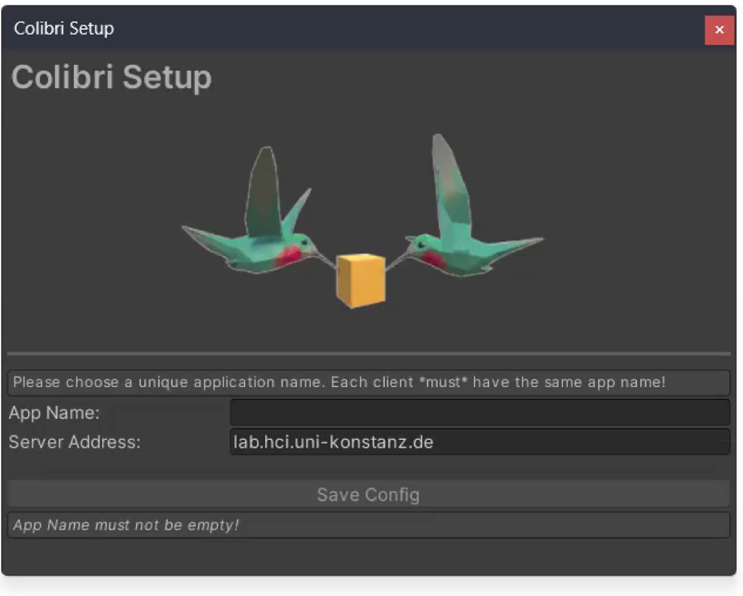
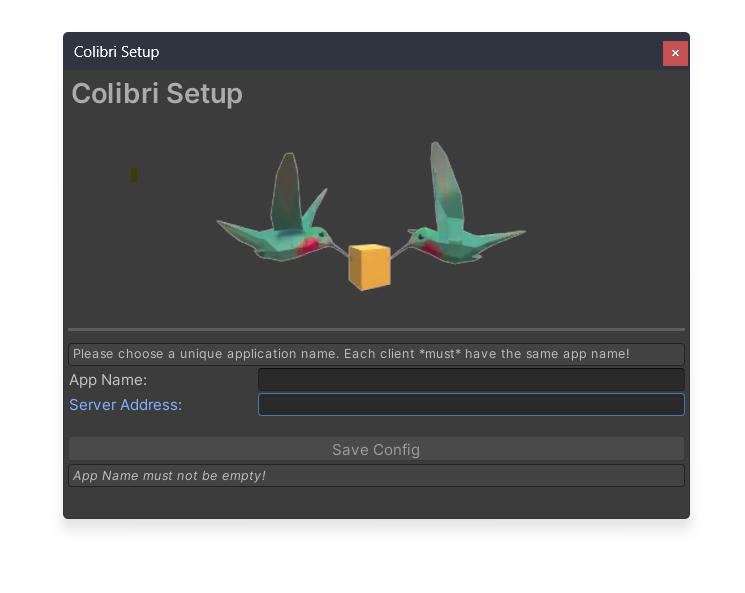
Use public colibri server as default

diff --git a/colibri-unity/Assets/Colibri/Setup/ColibriConfig.cs b/colibri-unity/Assets/Colibri/Setup/ColibriConfig.cs
@@ -14,7 +14,7 @@ namespace HCIKonstanz.Colibri.Setup
             return _instance;
         }
 
-        public string ServerAddress = "lab.hci.uni-konstanz.de";
+        public string ServerAddress = "colibri.hci.uni.kn";
         public string AppName = "";
     }
 }

diff --git a/colibri-unity/README.md b/colibri-unity/README.md
@@ -26,7 +26,7 @@ Upon installation, a configuration window should show up:
 
 <img src="img/config.png" width=400/>
 
-- Enter the URL of your (shared) [server](../colibri-server).
+- Enter the URL of your (shared) [server](../colibri-server). A public test server can be found at `colibri.hci.uni.kn` (beware of network latency!)
 - Choose a unique *app name*. Though a server supports multiple clients, data is only synchronized between clients with identical *app names*!
 - All changes are saved to `Resources/ColibriConfig` - adjust this file in case you want to adjust something
 
